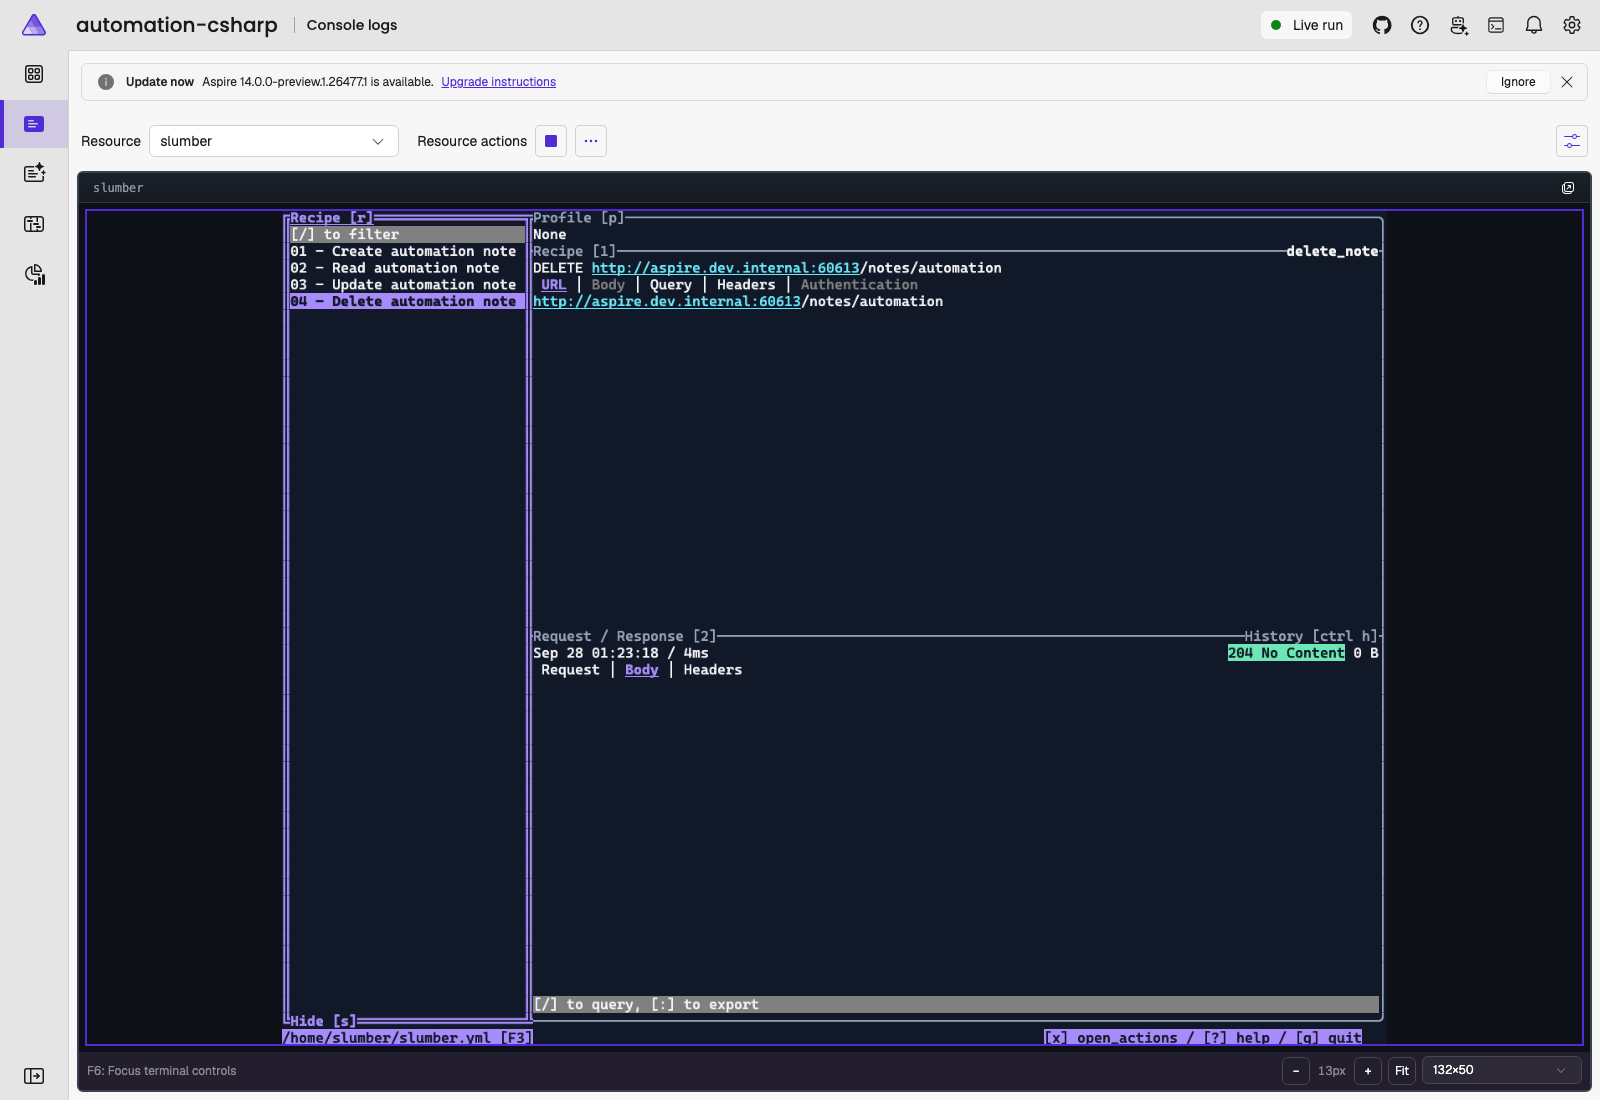
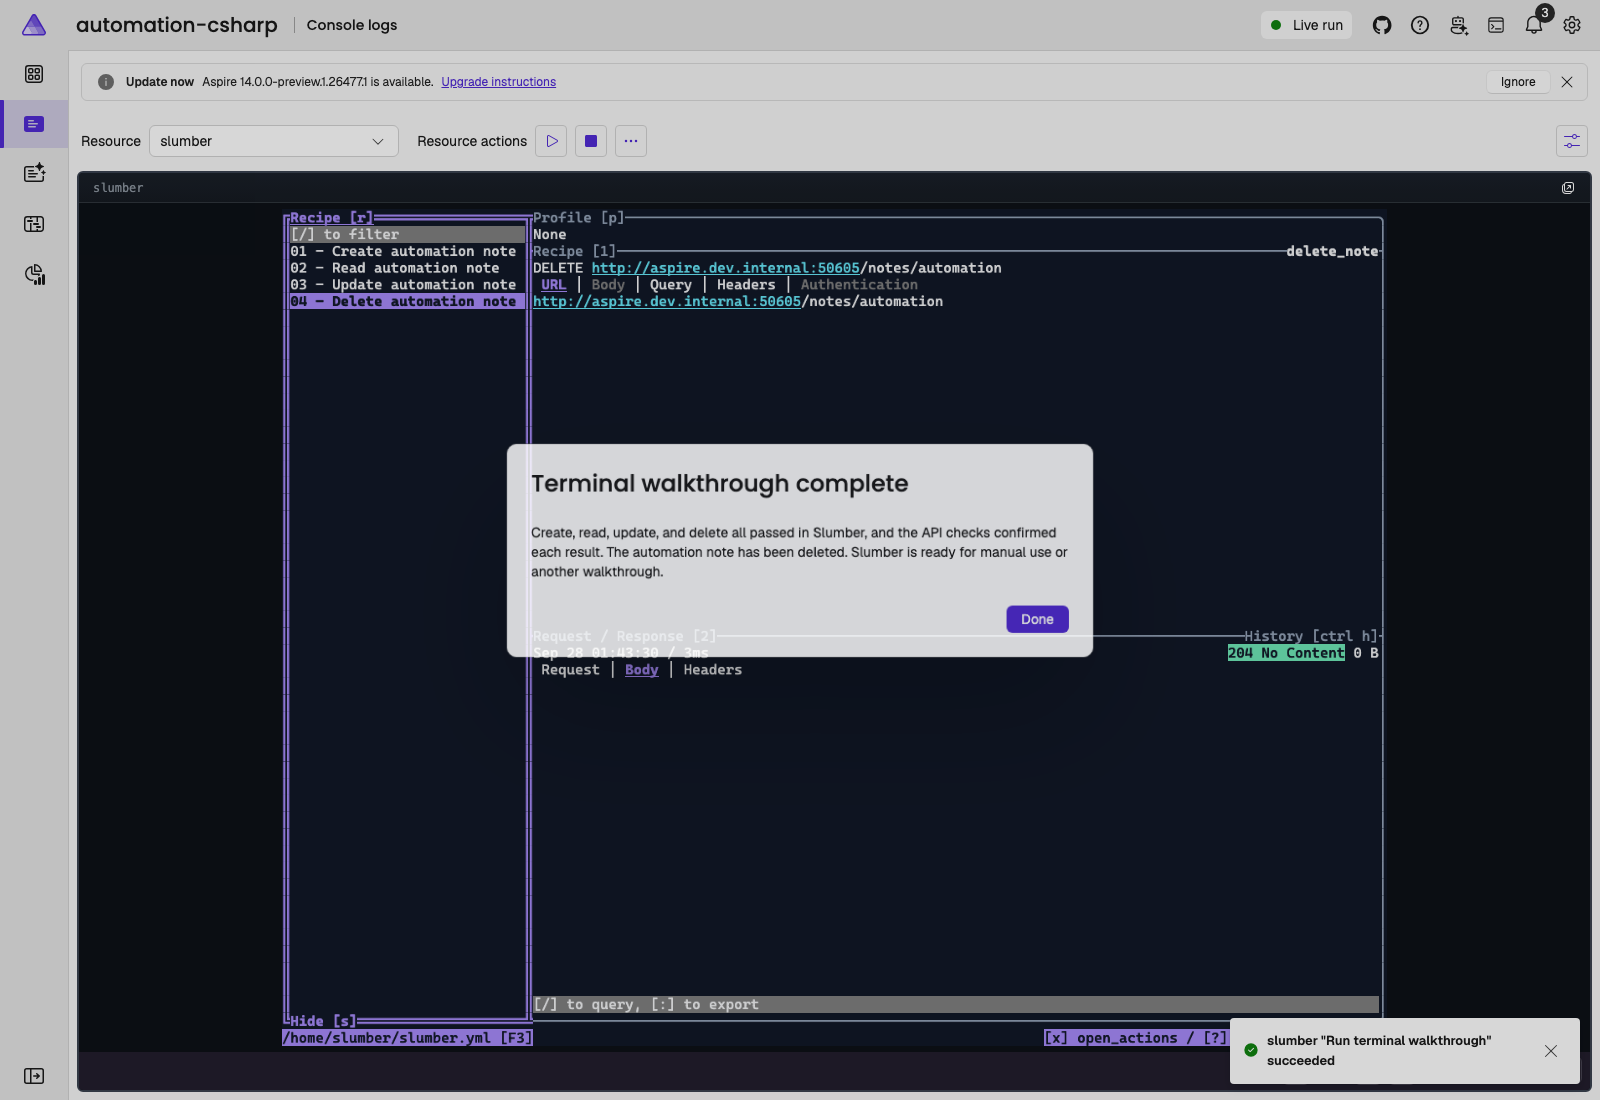
Confirm terminal automation restart and report completion
Highlight the walkthrough action to avoid stale console overflow menu state in the pinned dashboard.

diff --git a/samples/terminals/automation-csharp/apphost.cs b/samples/terminals/automation-csharp/apphost.cs
@@ -34,10 +34,34 @@ if (builder.ExecutionContext.IsRunMode)
 
         var logger = context.Services.GetRequiredService<ResourceLoggerService>().GetLogger(slumber.Resource);
         using var timeout = CancellationTokenSource.CreateLinkedTokenSource(context.CancellationToken);
-        timeout.CancelAfter(TimeSpan.FromMinutes(2));
         var ct = timeout.Token;
         try
         {
+            var interactions = context.Services.GetRequiredService<IInteractionService>();
+            if (interactions.IsAvailable)
+            {
+                var confirmation = await interactions.PromptConfirmationAsync(
+                    "Restart Slumber and run automation?",
+                    "Slumber will restart to put its terminal in a known state, clearing its current selection and request history. " +
+                    "The walkthrough will also reset the reserved 'automation' note, then create, read, update, and delete it. " +
+                    "Other notes are left unchanged. Do not type into or resize Slumber until the walkthrough finishes.",
+                    new MessageBoxInteractionOptions
+                    {
+                        PrimaryButtonText = "Restart and run",
+                        SecondaryButtonText = "Cancel"
+                    },
+                    ct);
+                if (confirmation.Canceled || !confirmation.Data)
+                {
+                    return CommandResults.Canceled();
+                }
+            }
+            else
+            {
+                logger.LogInformation("Non-interactive walkthrough: restarting Slumber and resetting the reserved automation note without a confirmation dialog.");
+            }
+
+            timeout.CancelAfter(TimeSpan.FromMinutes(2));
             var notifications = context.Services.GetRequiredService<ResourceNotificationService>();
             await notifications.WaitForResourceHealthyAsync(api.Resource.Name, ct);
             using var client = new HttpClient { BaseAddress = new Uri(api.GetEndpoint("http").Url) };
@@ -94,7 +118,23 @@ if (builder.ExecutionContext.IsRunMode)
                 }
                 logger.LogInformation("Walkthrough passed: create, read, update and delete through Slumber.");
             }
+
+            timeout.CancelAfter(Timeout.InfiniteTimeSpan);
+            if (interactions.IsAvailable)
+            {
+                await interactions.PromptMessageBoxAsync(
+                    "Terminal walkthrough complete",
+                    "Create, read, update, and delete all passed in Slumber, and the API checks confirmed each result. " +
+                    "The automation note has been deleted. Slumber is ready for manual use or another walkthrough.",
+                    new MessageBoxInteractionOptions { PrimaryButtonText = "Done" },
+                    context.CancellationToken);
+            }
             return CommandResults.Success();
+        }
+        catch (OperationCanceledException) when (context.CancellationToken.IsCancellationRequested)
+        {
+            logger.LogInformation("Terminal walkthrough canceled.");
+            return CommandResults.Canceled();
         }
         catch (Exception ex) when (ex is TimeoutException or OperationCanceledException or HttpRequestException or InvalidOperationException)
         {
@@ -108,6 +148,8 @@ if (builder.ExecutionContext.IsRunMode)
     }, new CommandOptions
     {
         Description = "Restarts Slumber and drives CRUD through its terminal. Do not type into Slumber during the run.",
+        IconName = "Play",
+        IsHighlighted = true,
         UpdateState = context => context.ResourceSnapshot.State?.Text == KnownResourceStates.Running
             ? ResourceCommandState.Enabled : ResourceCommandState.Disabled
     });

diff --git a/samples/terminals/automation-csharp/README.md b/samples/terminals/automation-csharp/README.md
@@ -2,7 +2,7 @@
 
 Drive a real REST TUI from AppHost code. **Run terminal walkthrough** presses keys in Slumber, waits for its responses, and independently checks the API after creating, reading, updating, and deleting a note.
 
-![Slumber after the automated walkthrough, showing 204 No Content](./images/automation-result.png)
+![Completion popup after the verified Slumber walkthrough](./images/automation-result.png)
 
 ## Prerequisites and startup
 
@@ -20,7 +20,9 @@ aspire start --apphost apphost.cs --isolated
 aspire wait --apphost apphost.cs
 ```
 
-Open Slumber's **Console logs** in the dashboard. In **Resource actions**, choose **Run terminal walkthrough** and watch it navigate the four requests. Do not type into Slumber or resize its terminal during the walkthrough.
+Open Slumber's **Console logs** in the dashboard. Click the highlighted **Play** button beside **Resource actions** to run the walkthrough. An interaction-service confirmation explains that Slumber must restart to put its terminal in a known state and that the reserved `automation` note will be reset. Choose **Restart and run** to continue, or **Cancel** to leave the terminal and data unchanged. Do not type into Slumber or resize its terminal during the walkthrough.
+
+Use the highlighted button for repeat runs. In the pinned daily dashboard, the console page's overflow menu can retain a stale disabled command after completion; the highlighted toolbar button evaluates its enabled state when rendered. Reloading the page also refreshes the overflow menu. This is a dashboard limitation, not a still-running walkthrough.
 
 Alternatively, run the same command without a browser:
 
@@ -28,7 +30,11 @@ Alternatively, run the same command without a browser:
 aspire resource slumber walkthrough --apphost apphost.cs --non-interactive
 ```
 
-Success leaves **04 - Delete automation note** selected with **204 No Content**. The command logs each verified step to the Slumber resource and fails if a screen or API assertion fails. View those messages with `aspire logs slumber --apphost apphost.cs` (the output also contains the TUI's terminal escape sequences).
+This explicit non-interactive invocation skips the confirmation and logs that it will restart Slumber and reset the reserved note. It retains the original headless automation behavior.
+
+Success leaves **04 - Delete automation note** selected with **204 No Content** and shows a **Terminal walkthrough complete** popup summarizing the verified CRUD round trip. Choose **Done** to return to Slumber and run again. No completion popup is shown for canceled or failed automation, and non-interactive invocations report their result through the CLI instead.
+
+The command logs each verified step to the Slumber resource and fails if a screen or API assertion fails. View those messages with `aspire logs slumber --apphost apphost.cs` (the output also contains the TUI's terminal escape sequences).
 
 ## What the sample demonstrates
 
@@ -37,14 +43,14 @@ Success leaves **04 - Delete automation note** selected with **204 No Content**.
 Each run:
 
 1. Acquires a non-blocking semaphore so two walkthroughs cannot type simultaneously.
-2. Waits for the API to be healthy and removes only the reserved `automation` note through HTTP.
+2. Uses `IInteractionService.PromptConfirmationAsync` when interactions are available. Cancellation returns without changing resources or data. After confirmation, it waits for the API to be healthy and removes only the reserved `automation` note through HTTP.
 3. Restarts only Slumber and waits for a new running container ID, resetting its selection and in-memory history.
 4. Waits for each recipe's empty history, sends the request, and waits for its expected status. It also checks response text and verifies API state; deletion must produce an independent HTTP 404.
-5. Releases the terminal handle without stopping Slumber, leaving the final response visible.
+5. Releases the terminal handle without stopping Slumber, leaving the final response visible, and displays the completion message when interactions are available.
 
 The [four recipes](./requests.yml) use `persist: false`, so saved responses cannot satisfy the next run's assertions. The request collection is mounted **read-only**; edit the repository file, not Vim inside Slumber. API endpoint injection still comes from Aspire, with no hard-coded host port.
 
-The command honors cancellation and has a two-minute overall deadline in addition to the terminal API's per-wait timeout. Failures are logged and returned as failed resource commands. A failed run may leave the `automation` note behind; the next run resets it. No other notes are deleted.
+The command honors cancellation and has a two-minute automation deadline, starting after confirmation, in addition to the terminal API's per-wait timeout. Time spent deciding at the confirmation prompt or dismissing the completion popup does not consume that deadline. Failures are logged and returned as failed resource commands. A failed run may leave the `automation` note behind; the next run resets it. No other notes are deleted.
 
 This is deliberately a version-specific TUI automation example: changing the collection order, Slumber version, or screen layout can require updating its assertions. Human input and other clients editing the reserved note during a run are not supported. Normal manual use is available again once the command finishes.
 
